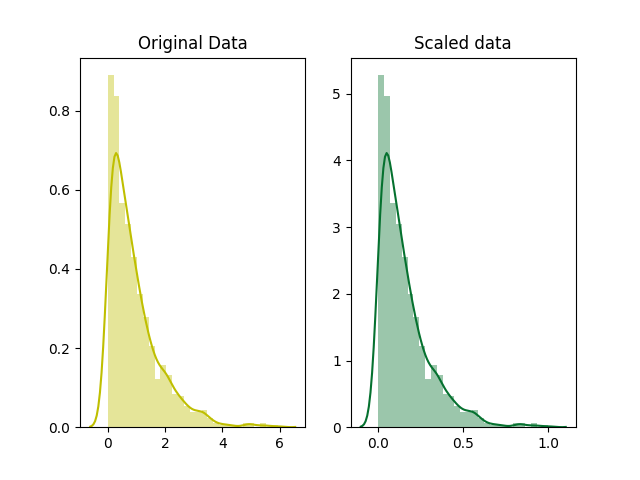
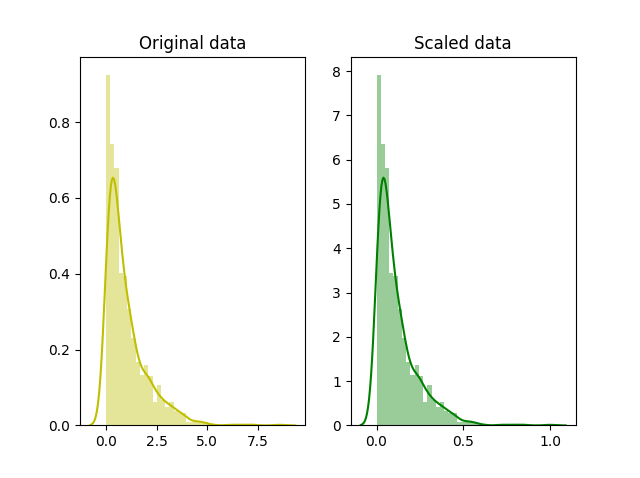
fix: Correct normalization graphs

diff --git a/_posts/2018-03-23-scaling-vs-normalization.md b/_posts/2018-03-23-scaling-vs-normalization.md
@@ -22,22 +22,23 @@ Scaling is important in the algorithms such as support vector machines (SVM) and
 import numpy as np
 import seaborn as sns
 import matplotlib.pyplot as plt
-from sklearn.preprocessing import minmax_scale
+from sklearn.preprocessing import minmax_scale, scale
 
 # set seed for reproducibility
 np.random.seed(0)
 
-# generate 1000 data points randomly drawn from an exponential distribution
-original_data = np.random.exponential(size = 1000)
+# generate random data points from an exponential distribution
+x = np.random.exponential(size=1000)
 
-# mix-max scale the data between 0 and 1
-scaled_data = minmax_scale(original_data)
+# mix-max scaling
+scaled_data = minmax_scale(x)
+# scaled_data = (x-x.min())/(x.max()-x.min())
 
 # plot both together to compare
-fig, ax=plt.subplots(1,2)
-sns.distplot(original_data, ax=ax[0], color='y')
-ax[0].set_title("Original Data")
-sns.distplot(scaled_data, ax=ax[1])
+f, ax = plt.subplots(1,2)
+sns.distplot(x, ax=ax[0], color='y')
+ax[0].set_title("Original data")
+sns.distplot(scaled_data, ax=ax[1], color='g')
 ax[1].set_title("Scaled data")
 plt.show()
 {% endhighlight %}
@@ -73,6 +74,21 @@ where $$\mu$$ is the mean. By subtracting the mean from the distribution, we're 
 
 It's widely used in SVM, logistics regression and neural networks.
 
+{% highlight python %}
+# standardization
+standardized_data = scale(x)
+
+# plot
+fig, ax=plt.subplots(1,2)
+sns.distplot(x, ax=ax[0], color='y')
+ax[0].set_title("Original data")
+sns.distplot(standardized_data, ax=ax[1], color='teal')
+ax[1].set_title("Standardized data")
+plt.show()
+{% endhighlight %}
+
+<img src="/img/standardization.png" style="display: block; margin: auto; width: auto; max-width: 100%;">
+
 ## #2
 
 Simply called **normalization**, it's just another way of normalizing data. Note that, it's a different from min-max scaling in numerator, and from z-score normalization in the denominator.
@@ -82,17 +98,14 @@ $$x' = \frac{x - x_{mean}}{x_{max} - x_{min}}$$
 For normalization, the maximum value you can get after applying the formula is 1, and the minimum value is 0. So all the values will be between 0 and 1.
 
 {% highlight python %}
-# for Box-Cox Transformation
-from scipy import stats
+# normalization
+normalized_data = (x-x.mean())/(x.max()-x.min())
 
-# normalize the exponential data with boxcox
-normalized_data = stats.boxcox(original_data)
-
-# plot both together to compare
+# plot
 fig, ax=plt.subplots(1,2)
-sns.distplot(original_data, ax=ax[0], color='y')
-ax[0].set_title("Original Data")
-sns.distplot(normalized_data[0], ax=ax[1])
+sns.distplot(x, ax=ax[0], color='y')
+ax[0].set_title("Original data")
+sns.distplot(normalized_data, ax=ax[1])
 ax[1].set_title("Normalized data")
 plt.show()
 {% endhighlight %}
